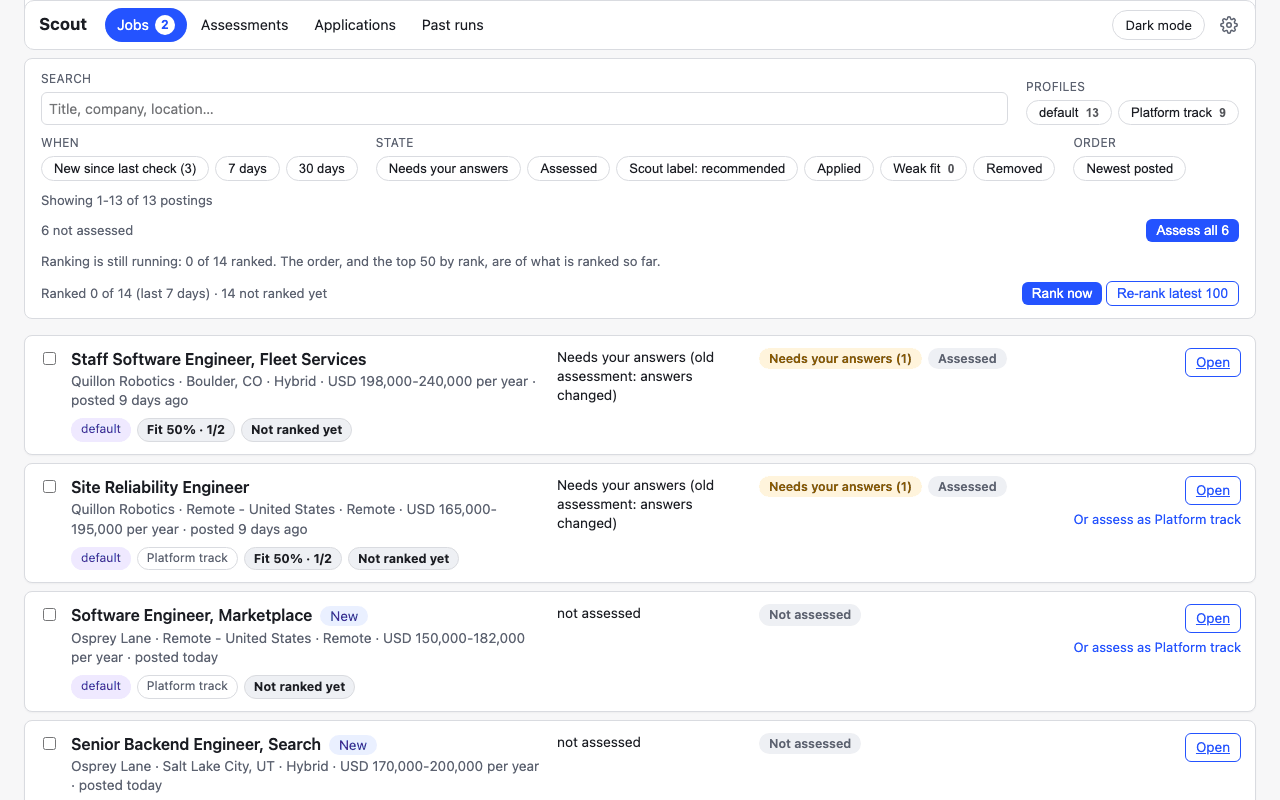
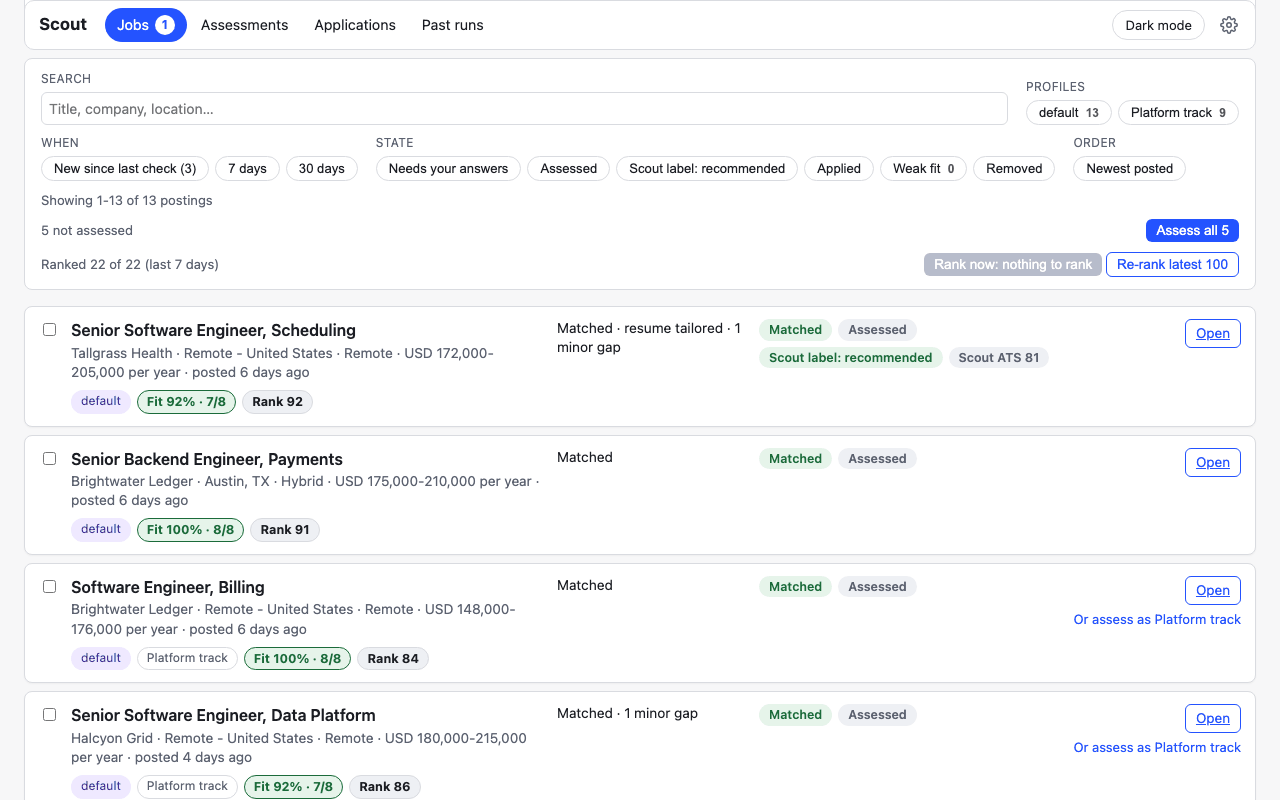
docs(media): the demo home's fixture model gives a spread of ranks and complete assessments, so the Jobs shots show Rank and green Fit chips (fixture answers only; product code and UI untouched)

diff --git a/tools/media/demo_home.py b/tools/media/demo_home.py
@@ -116,14 +116,21 @@ def _lever_body(company: persona.Company, seen: datetime) -> list[dict[str, obje
     return body
 
 
-def build(root: Path, *, log=print, resumes_folder: Path | None = None, master: bool = False) -> DemoHome:
+OVERLAY_DIR = Path(__file__).resolve().parent / "overlay"
+
+
+def build(root: Path, *, log=print, resumes_folder: Path | None = None, master: bool = False, showcase: bool = False) -> DemoHome:
     """Create the home under `root`, start Scout, fill it. The caller stops it with `stop(root)`.
 
     `resumes_folder` saves that folder as the home's resumes folder (the real `gigai scout resume
     folder --set`) before anything is written to it; `master` makes the master resume from the
     profiles' resumes (the Master page's own route) before the first job is tailored, so the hero
-    job's resume is picked from the master. Both are off for the browser tests (tests/ui), which
-    pin the default folder and make the master themselves; `make media` turns both on.
+    job's resume is picked from the master. `showcase` starts the server with the fixture-model overlay
+    (`overlay/sitecustomize.py`: a spread of rank scores, assessments with four or more requirements)
+    and ranks every posting through the real "Rank now" route, so the Jobs list shows Rank and Fit
+    chips and "Ranked 14 of 14". All three are off for the browser tests (tests/ui), which
+    pin the default folder, make the master themselves and expect the fixture's own answers;
+    `make media` turns them on.
     """
 
     assert_synthetic_home(root)
@@ -203,6 +210,9 @@ def build(root: Path, *, log=print, resumes_folder: Path | None = None, master: 
     with socket.socket() as probe:
         probe.bind(("127.0.0.1", 0))
         port = probe.getsockname()[1]
+    if showcase:
+        os.environ["GIGAI_MEDIA_OVERLAY"] = "1"
+        os.environ["PYTHONPATH"] = os.pathsep.join(filter(None, [str(OVERLAY_DIR), os.environ.get("PYTHONPATH", "")]))
     started = run_supervisor.start(
         home_root=home, requested_target=target, port=port, foreground=False, open_browser=False, allow_test_seams=True,
     )
@@ -253,7 +263,7 @@ def build(root: Path, *, log=print, resumes_folder: Path | None = None, master: 
         return [row["job_identity"] for row in rows() if f"/{slug}/" in row["job_identity"]]
 
     # Before the GCP answer exists: these need the user's answer.
-    first = of("tallgrass-health")[:1] + of("quillon-robotics")
+    first = of("tallgrass-health")[:1] + of("quillon-robotics")  # the staff role stays "Needs your answers" (its assessment is old now)
     log(f"assessed before the answer: {assess(first)}")
     ok(client.post("/api/new/seen", json={}))
 
@@ -338,6 +348,31 @@ def build(root: Path, *, log=print, resumes_folder: Path | None = None, master: 
         pipeline = pipeline_done()
         done_job = pipeline["hero"]
         log(f"hero resume: picked {stored['selection']['counts']['picked']}, left out {stored['selection']['counts']['left_out']}")
+
+    if showcase:
+        # The SRE role at Quillon was assessed before the answer: assess it again so it is a match, and rank everything
+        # through the Jobs page's own "Rank now" (the routes the page calls), then wait for it to finish.
+        log(f"assessed again after the answer: {assess([i for i in of('quillon-robotics') if i.endswith('-0002')], again=True)}")
+        # "Rank now" ranks the postings of the last 7 days (the demo's are all inside it: see persona.age_days).
+        for mode in ("unranked",):
+            ok(client.post("/api/postings/rank", json={"mode": mode, "approve": True}), 202)
+            deadline = time.monotonic() + PIPELINE_WAIT_SECONDS
+            while time.monotonic() < deadline:
+                progress = ok(client.get("/api/postings/ranking"))
+                job = progress.get("job") or {}
+                if job.get("state") == "done" and not progress["ranking"]["in_progress"]:
+                    break
+                time.sleep(0.5)
+            else:
+                raise DemoHomeError(f"the demo postings were not all ranked: {progress}")
+        for _ in range(20):  # the rows pick the new scores up when the store next refreshes
+            ranked = [item for item in rows() if item.get("rank_score") is not None]
+            if len(ranked) == len(rows()):
+                break
+            time.sleep(0.5)
+        if len(ranked) != len(rows()):
+            raise DemoHomeError(f"the demo postings were not all ranked: {len(ranked)} of {len(rows())}: {progress['job']}")
+        log(f"ranked: {len(ranked)} of {len(rows())}")
 
     final = ok(client.get("/api/postings"))
     counts = {key: int(value) for key, value in final["counts"].items() if isinstance(value, int)}

diff --git a/tools/media/overlay/sitecustomize.py b/tools/media/overlay/sitecustomize.py
@@ -1,0 +1,88 @@
+"""The media build's fixture-model overlay, loaded only by the demo Scout server's child process.
+
+`demo_home` puts this folder on the child's PYTHONPATH and sets GIGAI_MEDIA_OVERLAY=1. It wraps the
+repo's fixture model (`gigai.scout.find_jobs.bindings._test_model_handler`) so the demo's DATA looks
+like a model's: a spread of rank scores (the fixture gives every posting 60) and an assessment that
+has the posting's four requirements plus a few nice-to-haves (the fixture gives two rows, which the
+product rightly calls a thin posting and shows no Fit chip for). The product code and the UI are
+untouched; only the fixture's answers change. Nothing here runs outside the media build.
+"""
+
+import json
+import os
+
+if os.environ.get("GIGAI_MEDIA_OVERLAY") == "1":
+    from gigai.scout.find_jobs import bindings
+
+    _original = bindings._test_model_handler
+
+    # Rank by posting title (the digest line reads "pNNN | <title> @ <company> | ..."): flattering, true to the
+    # persona (senior Python / Postgres / GCP backend work first, on-site and infra-only roles last).
+    RANKS = {
+        "Senior Software Engineer, Scheduling": 92,
+        "Senior Backend Engineer, Payments": 91,
+        "Staff Software Engineer, Fleet Services": 88,
+        "Senior Software Engineer, Data Platform": 86,
+        "Software Engineer, Billing": 84,
+        "Senior Backend Engineer, Search": 81,
+        "Platform Engineer, Developer Experience": 78,
+        "Software Engineer, Marketplace": 76,
+        "Backend Engineer, Records": 72,
+        "Platform Engineer": 69,
+        "Site Reliability Engineer, Platform": 66,
+        "Site Reliability Engineer": 63,
+        "Infrastructure Engineer": 58,
+    }
+    NICE = ("Kubernetes", "Terraform", "Healthcare or utilities domain", "Mentoring junior engineers")
+    UNMET = (1, 0, 2)  # nice-to-haves not met, by posting: Fit 92%, 100%, 83%
+
+    def _rank_score(line: str) -> int:
+        title = line.split(" | ")[1].split(" @ ")[0].strip() if line.count(" | ") >= 1 else ""
+        return RANKS.get(title, 54)
+
+    def handler(request):
+        import httpx
+
+        response = _original(request)
+        if request.method != "POST" or request.url.path != "/api/chat" or response.status_code != 200:
+            return response
+        prompt = bindings._test_model_prompt(request)
+        payload = response.json()
+        try:
+            content = json.loads(payload["message"]["content"])
+        except (KeyError, ValueError):
+            return response
+        if bindings.TEST_MODEL_RANK_MARKER in prompt and isinstance(content, list):
+            lines = {}
+            in_postings = False
+            for line in prompt.splitlines():
+                if line.startswith("POSTINGS ("):
+                    in_postings = True
+                    continue
+                if in_postings and " | " in line:
+                    lines[line.split(" | ", 1)[0].strip()] = line
+            for item in content:
+                score = _rank_score(lines.get(item["posting_id"], ""))
+                item["score"], item["reasons"] = score, [f"fixture score {score}"]
+        elif isinstance(content, dict) and content.get("verdict") == "matched_above_threshold" and len(content.get("matrix", [])) == 2:
+            titles = sorted((title for title in RANKS if title in prompt), key=len, reverse=True)
+            unmet = UNMET[list(RANKS).index(titles[0]) % len(UNMET)] if titles else 0
+            met = lambda name, kind, evidence: {"requirement": name, "class": kind, "resume_evidence": [evidence], "status": "met"}  # noqa: E731
+            matrix = [
+                met("Python", "hard", "Built Python services"),
+                met("Postgres, including schema changes on live tables", "hard", "Ran Postgres migrations on live tables"),
+                content["matrix"][1],
+                met("Clear written communication", "hard", "Wrote the runbooks for the team"),
+            ]
+            for index, name in enumerate(NICE):
+                if index < len(NICE) - unmet:
+                    matrix.append(met(name, "nice_to_have", "On the resume"))
+                else:
+                    matrix.append({"requirement": name, "class": "nice_to_have", "resume_evidence": [], "status": "not_met"})
+            content["matrix"] = matrix
+        else:
+            return response
+        payload["message"]["content"] = json.dumps(content, separators=(",", ":"))
+        return httpx.Response(200, json=payload, request=request)
+
+    bindings._test_model_handler = handler

diff --git a/tools/media/persona.py b/tools/media/persona.py
@@ -87,7 +87,7 @@ COMPANIES: tuple[Company, ...] = (
     Company(
         slug="tallgrass-health",
         blurb="Tallgrass Health builds scheduling and records software for rural clinics.",
-        age_days=12,
+        age_days=6,  # inside the rank lane's 7-day window: older postings are not ranked, and every row shows a Rank chip
         wave=1,
         postings=(
             Posting("Senior Software Engineer, Scheduling", REMOTE_US, "remote", (172_000, 205_000),
@@ -101,7 +101,7 @@ COMPANIES: tuple[Company, ...] = (
     Company(
         slug="quillon-robotics",
         blurb="Quillon Robotics makes warehouse robots and the fleet software that directs them.",
-        age_days=9,
+        age_days=5,
         wave=1,
         postings=(
             Posting("Staff Software Engineer, Fleet Services", "Boulder, CO", "hybrid", (198_000, 240_000),

diff --git a/tools/media/build.py b/tools/media/build.py
@@ -80,7 +80,7 @@ def main(argv: list[str] | None = None) -> int:
         with step("demo home"):
             server_started = True
             # The folder a default install shows (0110-10-07), and a master resume for the Master page and Picked / Left out.
-            demo = demo_home.build(root, log=lambda line: print(f"  {line}", flush=True), resumes_folder=demo_home.media_resumes_folder(), master=True)
+            demo = demo_home.build(root, log=lambda line: print(f"  {line}", flush=True), resumes_folder=demo_home.media_resumes_folder(), master=True, showcase=True)
         with step("UI screenshots"):
             rows += ui_shots.take_all(demo, out)
         with step("terminal frames"):

diff --git a/tools/media/README.md b/tools/media/README.md
@@ -46,7 +46,11 @@ runtime dependency and not an extra of the published package.
 
 The fixture model is not a model. Every assessment has the same two requirements (Python, GCP),
 it asks one question until that answer is saved, every rank is 60, and the "tailored" resume is
-three lines. The screenshots show the product's layout and flow with believable data around
+three lines. For the screenshots only, `overlay/sitecustomize.py` (on the demo server's PYTHONPATH,
+`demo_home.build(showcase=True)`) wraps the fixture so the Jobs list reads like a used one: a spread of
+rank scores by title, ranked through the page's own "Rank now", and matches that carry the posting's four
+requirements plus four nice-to-haves (Fit 100%, 92% or 83%; two rows would be a "thin posting" with no
+Fit chip). One job, Quillon's staff role, stays "Needs your answers". The product code is not touched. The screenshots show the product's layout and flow with believable data around
 that; they do not show what a real model writes.
 
 With a master resume the fixture is weaker still: its "tailored" resume cites the first line it is
